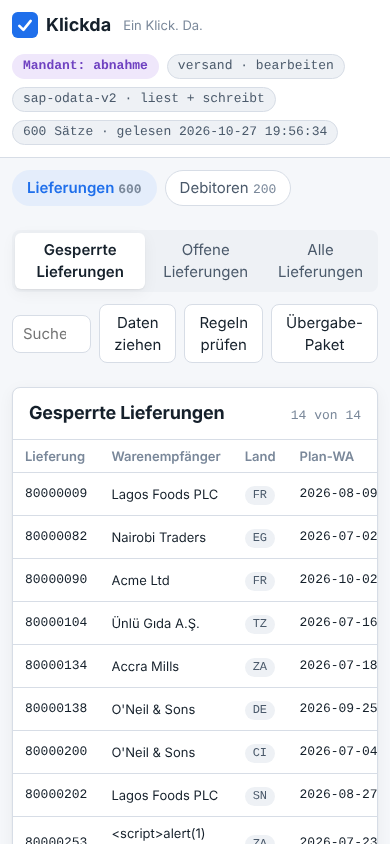
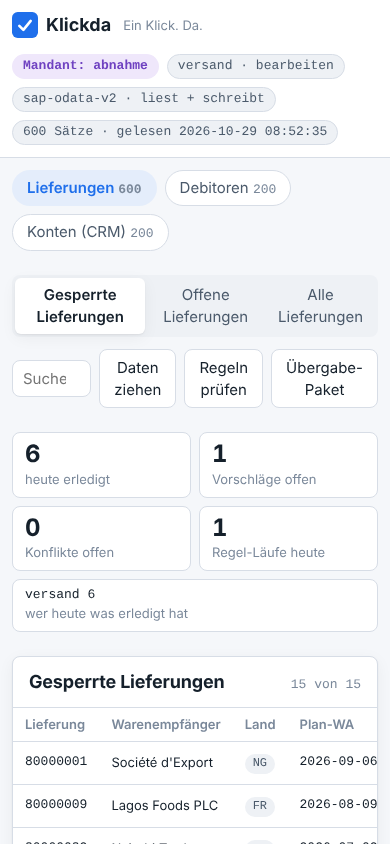
feat: Stand 0.2.0 — Dataverse, Tagesbericht, Abschnitt Stand der Entwicklung
Claude-Session: https://claude.ai/code/session_01NpRY9PPxXjFZPjqLCCsD2j

diff --git a/index.html b/index.html
@@ -36,6 +36,7 @@
       <a href="#sicherheit">Sicherheit</a>
       <a href="#automatisierung">Automatisierung</a>
       <a href="#wege">Kein Lock-in</a>
+      <a href="#stand">Stand</a>
       <a href="#kontakt">Kontakt</a>
     </nav>
     <a class="knopf knopf-primaer kopf-cta" href="#kontakt">Pilot anfragen</a>
@@ -59,6 +60,7 @@
       <p class="held-neben"><a href="#produkt">Oder erst ansehen, wie ein Klick aussieht ↓</a></p>
       <ul class="vertrauen" aria-label="Das zeichnet Klickda aus">
         <li>Läuft lokal auf dem Arbeitsplatz — keine Cloud, keine fremden Server, 0 externe Requests</li>
+        <li>Drei Konnektoren heute: SAP OData V2, Business Central, Dataverse — ein Kern, ein Paket je Kunde</li>
         <li>Jeder Schreibvorgang ist ein benanntes Kommando: Vorbedingung, ETag, Protokoll, Rückgängig</li>
         <li>Übergabe-Paket inklusive — Sie dürfen jederzeit gehen und alles mitnehmen</li>
       </ul>
@@ -70,7 +72,7 @@
     <p class="abschnitt-intro" data-reveal>Eine gesperrte Lieferung, ein Knopf „Sperre aufheben", ein Protokolleintrag — und ein „Rückgängig", das die alte Sperre wieder setzt. Keine Nachfrage, kein Formular.</p>
     <figure class="bild" data-reveal>
       <img src="klickda-cockpit.png" width="1280" height="860" alt="Klickda-Oberfläche: Liste gesperrter Lieferungen mit Mandant-Chip, Sichten, Suche und je Zeile dem Knopf „Sperre aufheben"; unten ein Hinweis „Lieferung 80000009: Liefersperre aufheben — erledigt" mit Rückgängig-Knopf." loading="lazy">
-      <figcaption>Echter Stand aus der automatischen Abnahme gegen ein nachgebautes SAP-Gateway: Mandant immer sichtbar, ein primärer Knopf je Zeile, Rückgängig statt Bestätigungsdialog.</figcaption>
+      <figcaption>Echter Stand aus der automatischen Abnahme gegen nachgebaute Gateways: Mandant immer sichtbar, Tagesbericht oben, ein primärer Knopf je Zeile, Rückgängig statt Bestätigungsdialog.</figcaption>
     </figure>
     <div class="stufen">
       <article class="karte lift stufe" data-reveal>
@@ -140,8 +142,19 @@
     <div class="konnektoren" data-reveal>
       <div class="konnektor"><h3>SAP S/4HANA, OData V2</h3><p>CSRF-Token und Sitzungs-Cookie aus dem Einzel-GET, ETag als If-Match, Folgeseiten sauber über den Proxy. Gegen ein nachgebautes Gateway mit genau diesen Kanten getestet.</p></div>
       <div class="konnektor"><h3>Dynamics 365 Business Central, API v2.0</h3><p>OAuth über Entra-App, Company-Auflösung, GUID-Schlüssel, If-Match als Pflicht. Eigener Fake, eigener Durchstich.</p></div>
-      <div class="konnektor"><h3>OData V4, generisch</h3><p>Die Basis für Dataverse und jedes weitere System, das OData spricht. Ein Vertrag, ein Adapter je System, nie ein Umbau des Kerns.</p></div>
+      <div class="konnektor"><h3>Dataverse, Dynamics 365 Sales</h3><p>Web API v9.2, Bearer-Token, GUID-Schlüssel, ETag als If-Match — nie ein Upsert durch die Hintertür. Eigener Fake, eigener Durchstich.</p></div>
+      <div class="konnektor"><h3>OData V4, generisch</h3><p>Die Basis der V4-Adapter und jedes weiteren Systems, das OData spricht. Ein Vertrag, ein Adapter je System, nie ein Umbau des Kerns.</p></div>
     </div>
+  </section>
+
+  <section class="abschnitt" id="stand">
+    <h2 data-reveal>Stand der Entwicklung</h2>
+    <p class="abschnitt-intro" data-reveal>Klickda wird offen gebaut: jede Version mit Tests gegen nachgebaute Gateways und einer Abnahme im echten Browser. Was hier steht, läuft.</p>
+    <dl class="stand" data-reveal>
+      <div><dt>0.2.0 · Oktober 2026</dt><dd>Dritter Konnektor Dataverse. Eingabemaske für Kommandos mit Werten. Tagesbericht: erledigt, wer, Regel-Läufe, offene Vorschläge und Konflikte. 60 Tests, Browser-Abnahme über drei Bereiche.</dd></div>
+      <div><dt>0.1.0 · Oktober 2026</dt><dd>Kern mit Kommandos, Spiegel, Outbox, hash-verkettetem Protokoll und Rückgängig. Konnektoren SAP OData V2 und Business Central. Workflow-Pakete je Kunde, Rollen, Regeln mit Freigabe, Übergabe-Paket.</dd></div>
+      <div><dt>Als Nächstes</dt><dd>Lizenzschlüssel, Delta-Lesen für große Bestände, ein Assistent, der Konflikte erklärt und Regeln vorschlägt — und nur vorschlägt. Offen gegen die echte Sandbox: der Statuscode von Business Central bei fremdem ETag.</dd></div>
+    </dl>
   </section>
 
   <section class="abschnitt abschnitt-hell" id="ueber">

diff --git a/styles.css b/styles.css
@@ -202,3 +202,8 @@ address { font-style: normal; margin: 12px 0; }
   .karten-sechs { grid-template-columns: repeat(3, 1fr); }
   .konnektoren { grid-template-columns: repeat(3, 1fr); }
 }
+
+.stand { margin: 0; display: grid; gap: 12px; max-width: 820px; }
+.stand > div { background: var(--karte); border: 1px solid var(--linie); border-radius: 12px; padding: 14px 18px; }
+.stand dt { font-weight: 700; color: var(--akzent-dunkel); margin-bottom: 4px; }
+.stand dd { margin: 0; color: var(--grau); text-wrap: pretty; }
